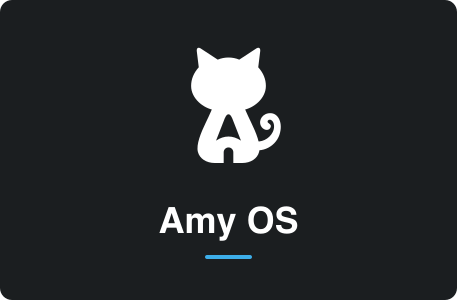
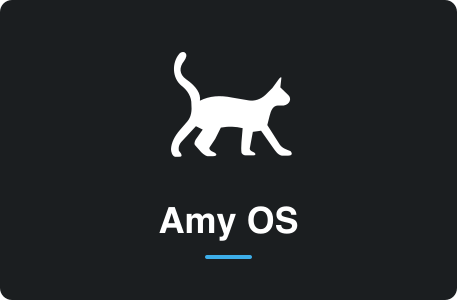
Use a walking side-profile cat across the Amy OS artwork

Changed region(s): [[0.3676, 0.15, 0.6433, 0.57]]

diff --git a/branding/README.md b/branding/README.md
@@ -4,9 +4,9 @@
 with the built-in imagegen tool. `./branding/render.sh` rebuilds every PNG and
 the Debian boot-menu SVG; it needs librsvg and Python 3.
 
-Final concept prompt: “An original, compact seated cat with pointed ears,
-a curled tail and an A-shaped torso opening. Flat silhouette, no facial details,
-texture or lettering. Bold curves and clear negative space, legible at 24 px.”
+Concept brief: “An original walking cat in side profile, facing right, with
+a raised tail, natural proportions and a smooth, solid silhouette. The simple
+style of the old logo, with a fresh drawing. No lettering or interior detail.”
 
 The same geometry supplies the black and white README marks, desktop and
 installer icons, welcome graphic and boot splash. The old downloaded cat is
